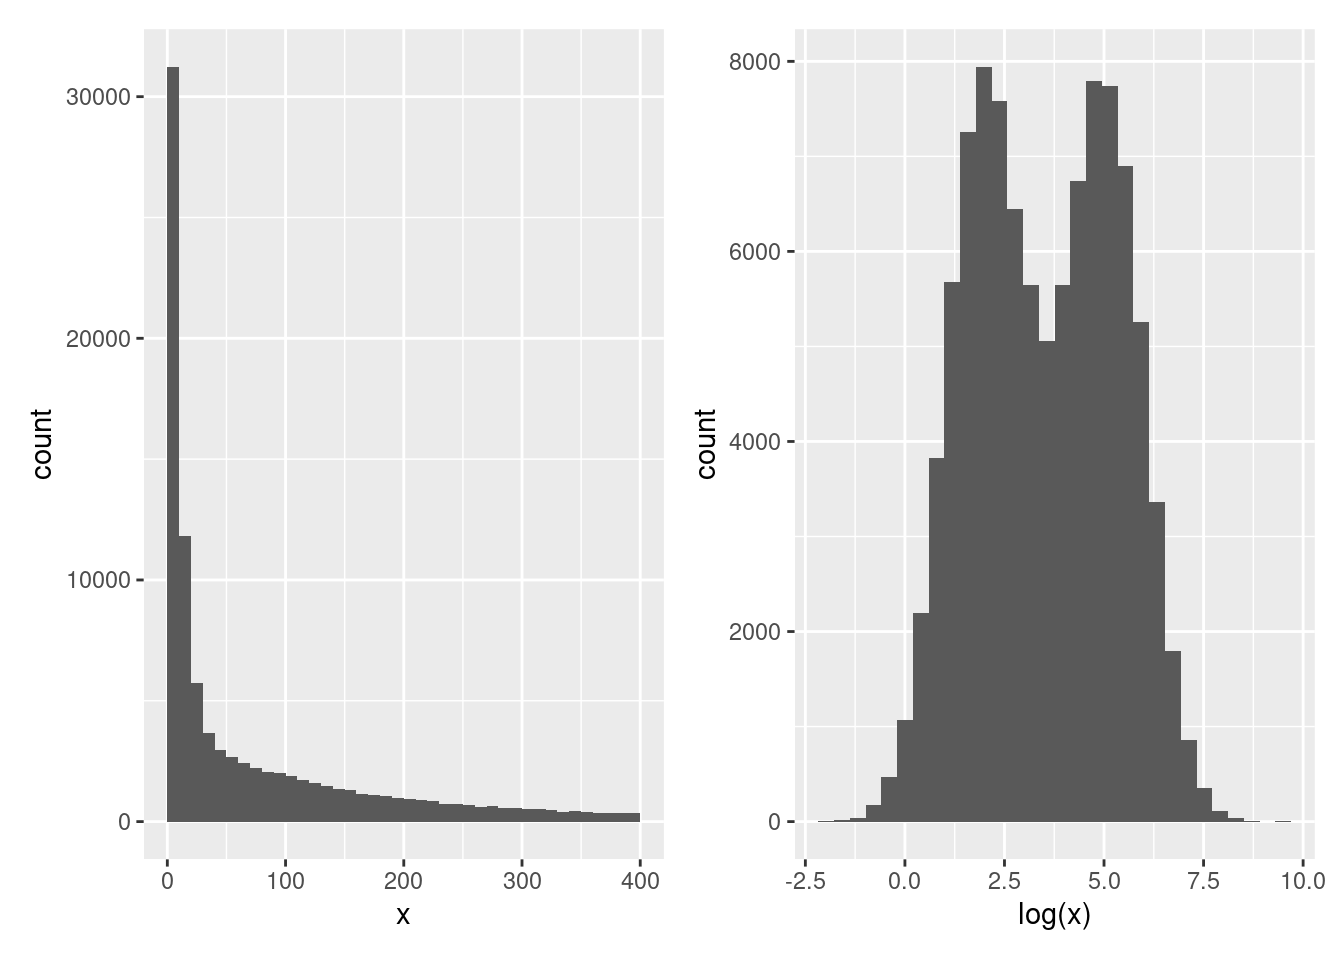
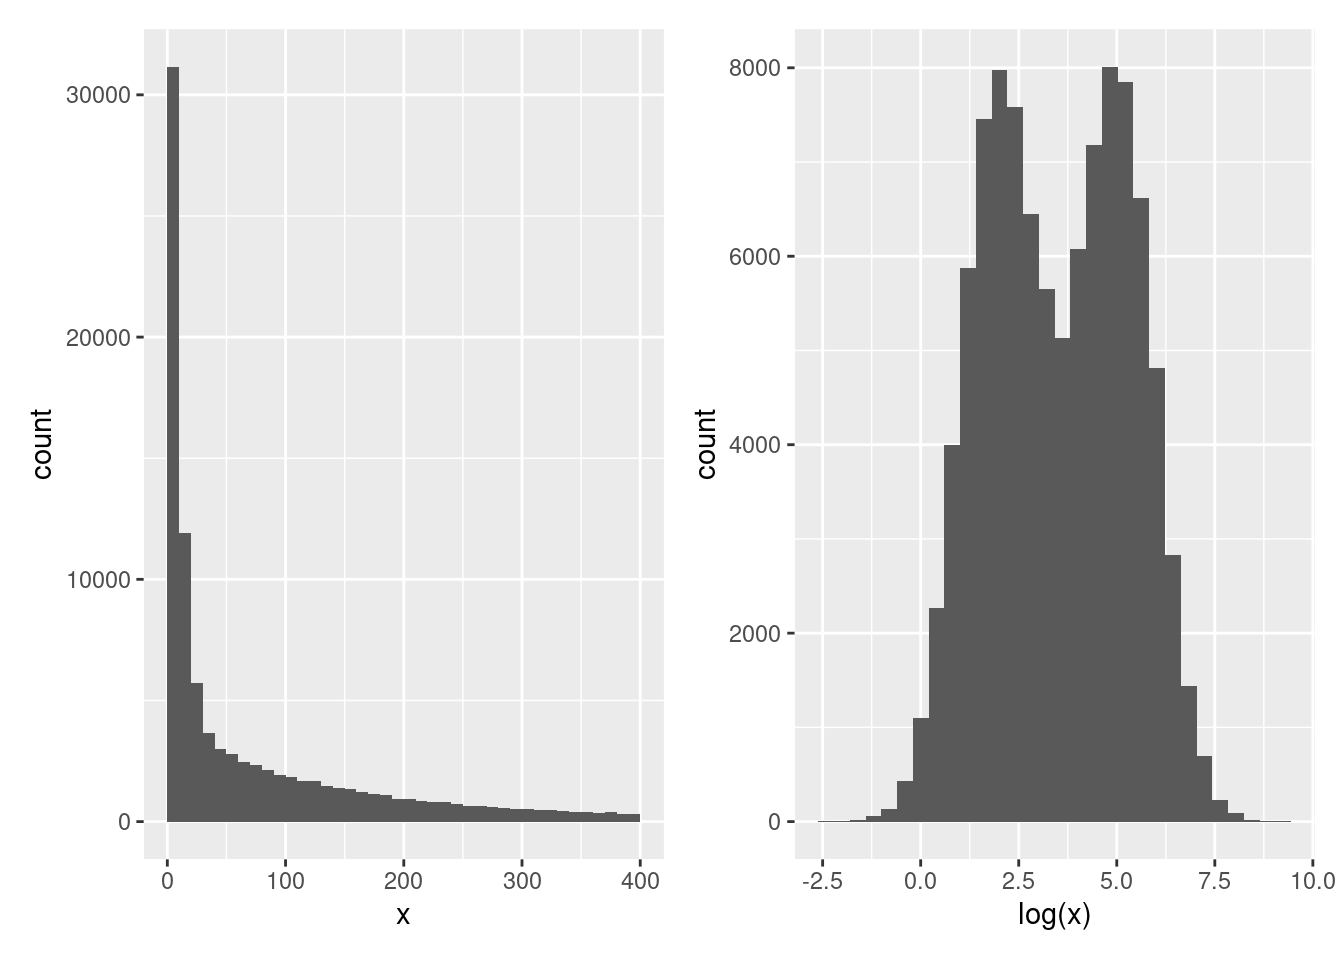
rebuild book

diff --git a/docs/sec-vis.html b/docs/sec-vis.html
@@ -14,7 +14,7 @@
 
 <meta name="author" content="Laurent Gatto" />
 
-<meta name="date" content="2021-11-29" />
+<meta name="date" content="2021-12-01" />
 
 <script type="text/x-mathjax-config">
 MathJax.Hub.Config({
@@ -919,7 +919,7 @@ of the data.</p>
 <span id="cb37-9"><a href="sec-vis.html#cb37-9" aria-hidden="true" tabindex="-1"></a>p2 <span class="ot">&lt;-</span>  <span class="fu">ggplot</span>(sim, <span class="fu">aes</span>(<span class="fu">log</span>(x))) <span class="sc">+</span></span>
 <span id="cb37-10"><a href="sec-vis.html#cb37-10" aria-hidden="true" tabindex="-1"></a>    <span class="fu">geom_histogram</span>(<span class="at">bins =</span> <span class="dv">30</span>)</span>
 <span id="cb37-11"><a href="sec-vis.html#cb37-11" aria-hidden="true" tabindex="-1"></a>p1 <span class="sc">+</span> p2</span></code></pre></div>
-<pre><code>## Warning: Removed 8183 rows containing non-finite values (stat_bin).</code></pre>
+<pre><code>## Warning: Removed 7945 rows containing non-finite values (stat_bin).</code></pre>
 <div class="figure">
 <span style="display:block;" id="fig:sim"></span>
 <p class="caption marginnote shownote">
@@ -1165,7 +1165,7 @@ otherwise. Below are some example outputs.</p>
 <a href="sec-obj.html"><button class="btn btn-default">Next</button></a>
 </p>
 <p class="build-date">Page built: 
-2021-11-29
+2021-12-01
  using 
 R version 4.1.2 (2021-11-01)
 </p>

diff --git a/docs/sec-sl.html b/docs/sec-sl.html
@@ -14,7 +14,7 @@
 
 <meta name="author" content="Laurent Gatto" />
 
-<meta name="date" content="2021-11-29" />
+<meta name="date" content="2021-12-01" />
 
 <script type="text/x-mathjax-config">
 MathJax.Hub.Config({
@@ -1030,7 +1030,7 @@ known. We thus know that some of these assignments will be wrong from
 a biological point of view.</p>
 <p>Re-run the kNN classifer above, setting <code>prob = TRUE</code> to get the
 proportion of votes in favour of the assigned class. These are stored
-as an attribute named <em>prob</em>; eead the <code>knn</code> manual page to learn how
+as an attribute named <em>prob</em>; read the <code>knn</code> manual page to learn how
 to extract these from the <code>knn</code> output variable.</p>
 <ul>
 <li><p>Based on these vote proportions, which results to you consider the
@@ -1053,7 +1053,7 @@ most reliable assignments one, and setting the unreliable ones to
 <a href="sec-biovis.html"><button class="btn btn-default">Next</button></a>
 </p>
 <p class="build-date">Page built: 
-2021-11-29
+2021-12-01
  using 
 R version 4.1.2 (2021-11-01)
 </p>

diff --git a/docs/index.html b/docs/index.html
@@ -14,7 +14,7 @@
 
 <meta name="author" content="Laurent Gatto" />
 
-<meta name="date" content="2021-11-29" />
+<meta name="date" content="2021-12-01" />
 
 <script type="text/x-mathjax-config">
 MathJax.Hub.Config({
@@ -339,7 +339,7 @@ style</a> <span class="citation">(<label for="tufte-mn-10" class="margin-toggle"
 <a href="sec-refresher.html"><button class="btn btn-default">Next</button></a>
 </p>
 <p class="build-date">Page built: 
-2021-11-29
+2021-12-01
  using 
 R version 4.1.2 (2021-11-01)
 </p>

diff --git a/docs/sec-biovis.html b/docs/sec-biovis.html
@@ -14,7 +14,7 @@
 
 <meta name="author" content="Laurent Gatto" />
 
-<meta name="date" content="2021-11-29" />
+<meta name="date" content="2021-12-01" />
 
 <script type="text/x-mathjax-config">
 MathJax.Hub.Config({
@@ -487,7 +487,7 @@ number of intersectios (default is 40) become useful.</p>
 <a href="sec-ccl.html"><button class="btn btn-default">Next</button></a>
 </p>
 <p class="build-date">Page built: 
-2021-11-29
+2021-12-01
  using 
 R version 4.1.2 (2021-11-01)
 </p>

diff --git a/docs/sec-mlintro.html b/docs/sec-mlintro.html
@@ -14,7 +14,7 @@
 
 <meta name="author" content="Laurent Gatto" />
 
-<meta name="date" content="2021-11-29" />
+<meta name="date" content="2021-12-01" />
 
 <script type="text/x-mathjax-config">
 MathJax.Hub.Config({
@@ -761,7 +761,7 @@ but these are beyond the scope of this course.</p>
 <a href="sec-testing.html"><button class="btn btn-default">Next</button></a>
 </p>
 <p class="build-date">Page built: 
-2021-11-29
+2021-12-01
  using 
 R version 4.1.2 (2021-11-01)
 </p>

diff --git a/docs/sec-obj.html b/docs/sec-obj.html
@@ -14,7 +14,7 @@
 
 <meta name="author" content="Laurent Gatto" />
 
-<meta name="date" content="2021-11-29" />
+<meta name="date" content="2021-12-01" />
 
 <script type="text/x-mathjax-config">
 MathJax.Hub.Config({
@@ -996,7 +996,7 @@ of class <code>SummarizedExperiment</code>.</p>
 <a href="sec-biostrings.html"><button class="btn btn-default">Next</button></a>
 </p>
 <p class="build-date">Page built: 
-2021-11-29
+2021-12-01
  using 
 R version 4.1.2 (2021-11-01)
 </p>

diff --git a/docs/sec-ul.html b/docs/sec-ul.html
@@ -14,7 +14,7 @@
 
 <meta name="author" content="Laurent Gatto" />
 
-<meta name="date" content="2021-11-29" />
+<meta name="date" content="2021-12-01" />
 
 <script type="text/x-mathjax-config">
 MathJax.Hub.Config({
@@ -995,7 +995,7 @@ average marker profiles, such as shown below.</p></li>
 <a href="sec-sl.html"><button class="btn btn-default">Next</button></a>
 </p>
 <p class="build-date">Page built: 
-2021-11-29
+2021-12-01
  using 
 R version 4.1.2 (2021-11-01)
 </p>

diff --git a/docs/sec-norm.html b/docs/sec-norm.html
@@ -14,7 +14,7 @@
 
 <meta name="author" content="Laurent Gatto" />
 
-<meta name="date" content="2021-11-29" />
+<meta name="date" content="2021-12-01" />
 
 <script type="text/x-mathjax-config">
 MathJax.Hub.Config({
@@ -748,7 +748,7 @@ implications for the normalisation step?</p>
 <a href="sec-mlintro.html"><button class="btn btn-default">Next</button></a>
 </p>
 <p class="build-date">Page built: 
-2021-11-29
+2021-12-01
  using 
 R version 4.1.2 (2021-11-01)
 </p>

diff --git a/docs/sec-refresher.html b/docs/sec-refresher.html
@@ -14,7 +14,7 @@
 
 <meta name="author" content="Laurent Gatto" />
 
-<meta name="date" content="2021-11-29" />
+<meta name="date" content="2021-12-01" />
 
 <script type="text/x-mathjax-config">
 MathJax.Hub.Config({
@@ -372,7 +372,7 @@ state it explicitly in your response.</p>
 <a href="sec-vis.html"><button class="btn btn-default">Next</button></a>
 </p>
 <p class="build-date">Page built: 
-2021-11-29
+2021-12-01
  using 
 R version 4.1.2 (2021-11-01)
 </p>

diff --git a/docs/sec-si.html b/docs/sec-si.html
@@ -14,7 +14,7 @@
 
 <meta name="author" content="Laurent Gatto" />
 
-<meta name="date" content="2021-11-29" />
+<meta name="date" content="2021-12-01" />
 
 <script type="text/x-mathjax-config">
 MathJax.Hub.Config({
@@ -321,7 +321,7 @@ the following code:</p>
 <a href="sec-ccl.html"><button class="btn btn-default">Previous</button></a>
 </p>
 <p class="build-date">Page built: 
-2021-11-29
+2021-12-01
  using 
 R version 4.1.2 (2021-11-01)
 </p>

diff --git a/docs/sec-testing.html b/docs/sec-testing.html
@@ -14,7 +14,7 @@
 
 <meta name="author" content="Laurent Gatto" />
 
-<meta name="date" content="2021-11-29" />
+<meta name="date" content="2021-12-01" />
 
 <script type="text/x-mathjax-config">
 MathJax.Hub.Config({
@@ -1132,7 +1132,7 @@ conclusion now?</li>
 <a href="sec-dimred.html"><button class="btn btn-default">Next</button></a>
 </p>
 <p class="build-date">Page built: 
-2021-11-29
+2021-12-01
  using 
 R version 4.1.2 (2021-11-01)
 </p>

diff --git a/docs/404.html b/docs/404.html
@@ -14,7 +14,7 @@
 
 <meta name="author" content="Laurent Gatto" />
 
-<meta name="date" content="2021-11-29" />
+<meta name="date" content="2021-12-01" />
 
 <script type="text/x-mathjax-config">
 MathJax.Hub.Config({
@@ -208,7 +208,7 @@ the table of contents to find the page you are looking for.</p>
 <p style="text-align: center;">
 </p>
 <p class="build-date">Page built: 
-2021-11-29
+2021-12-01
  using 
 R version 4.1.2 (2021-11-01)
 </p>
